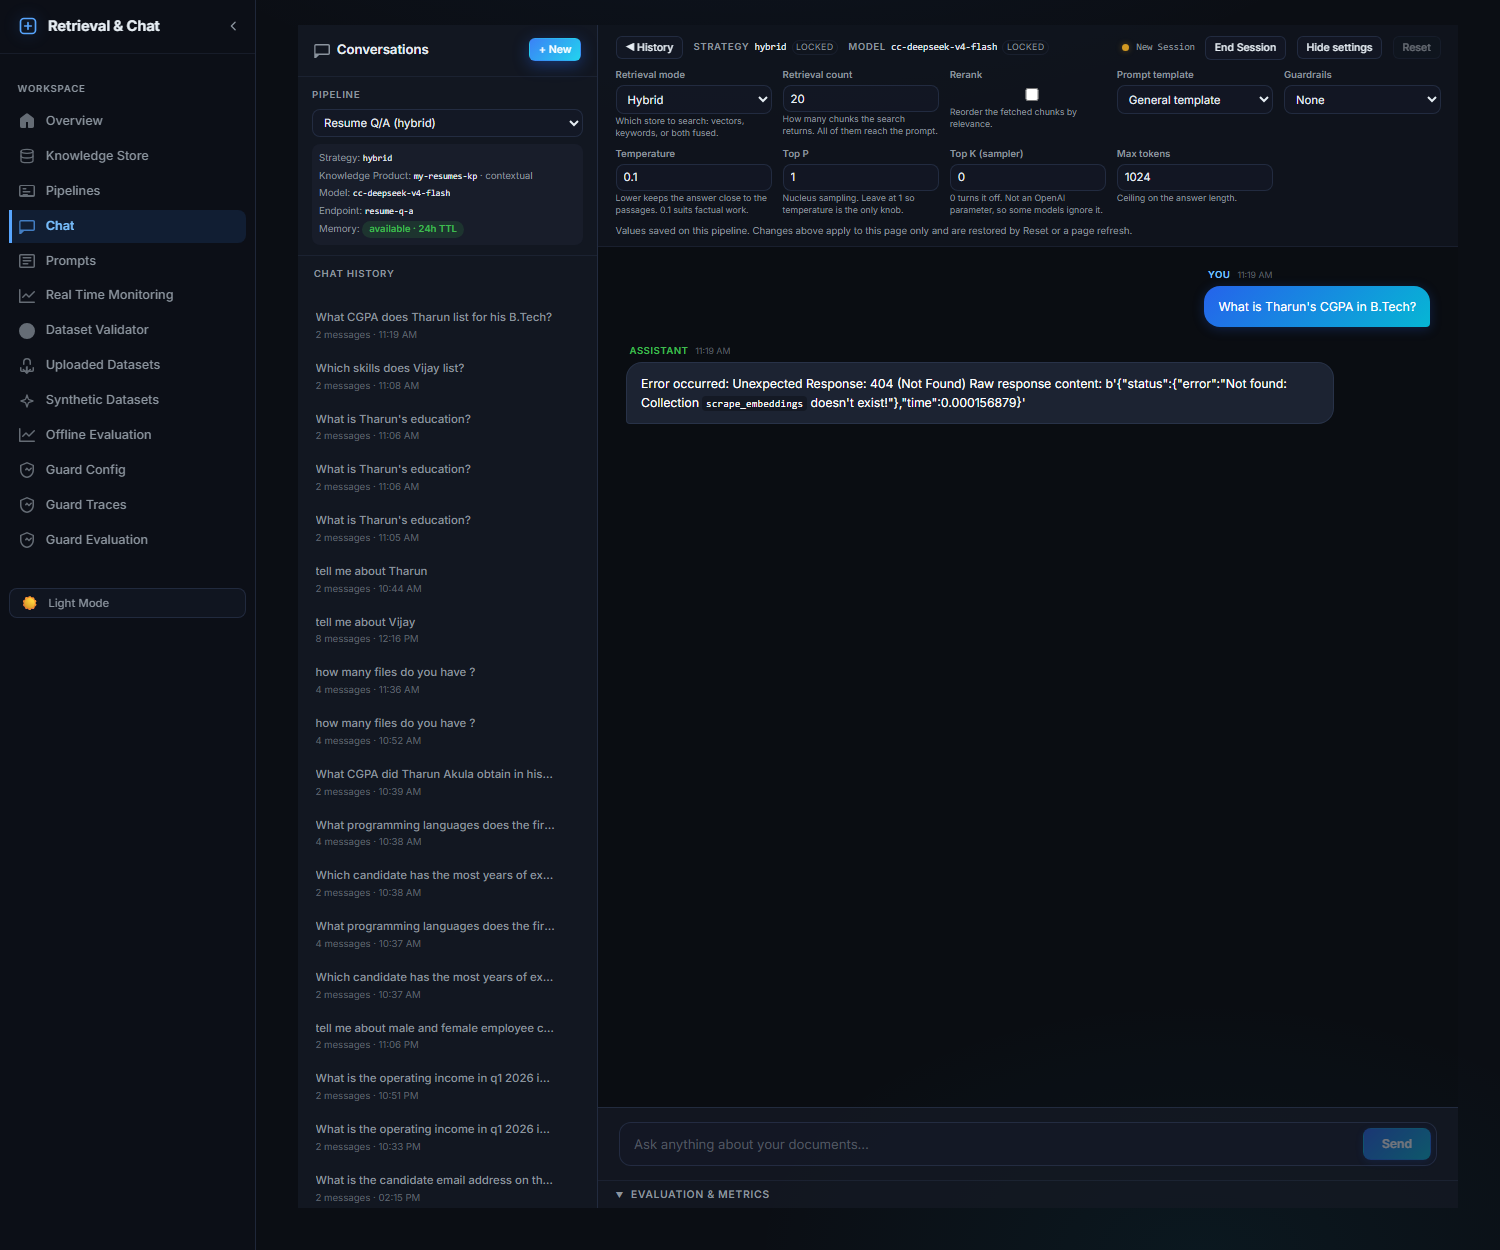
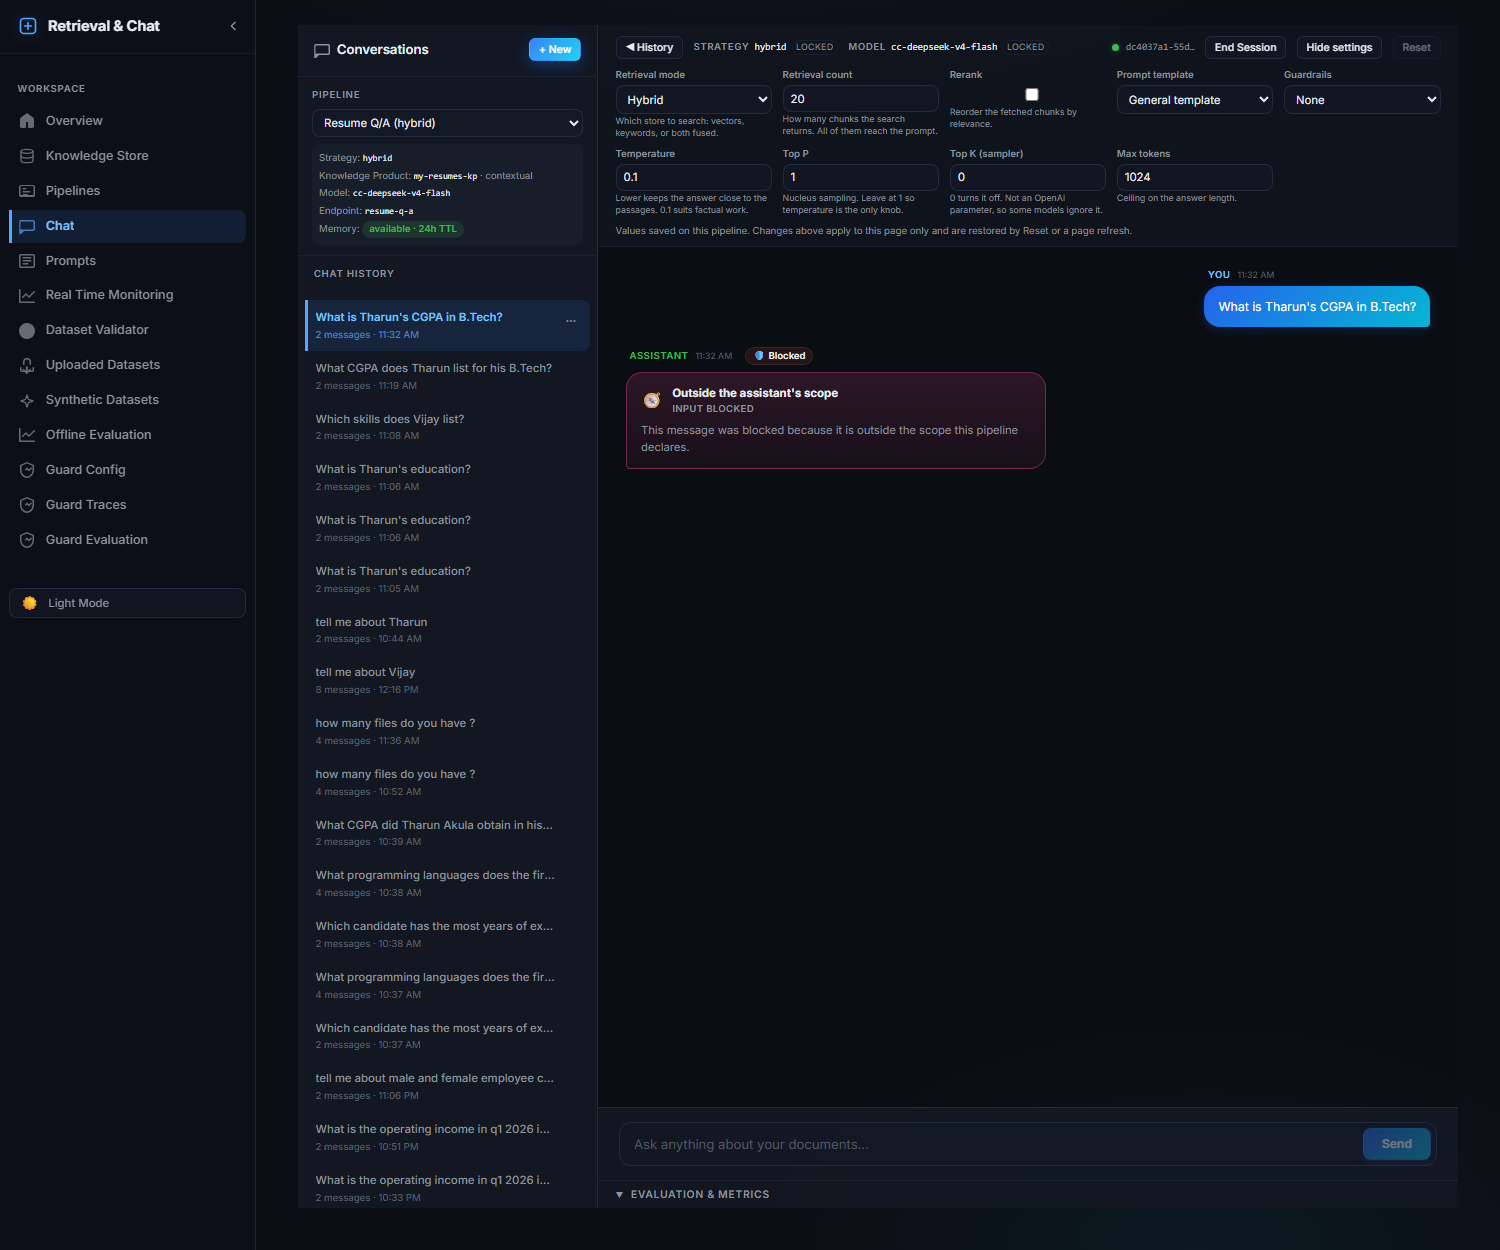
Offline evaluation: one judge per row, and the trace keeps the timings
- calculate_retrieval_ragas_async ignored the run's judge: context precision,
  recall and entity recall were graded by the service default while generation
  and the triad used the model the run names. One row, two judges.
- compute_retrieval_ragas_metrics loses its dead answer parameter.
- EvalItemResult carries latency_ms, so the OTel trace records the stage
  timings instead of an always-empty dict.

diff --git a/rag-retrieval-chat-manager/backend/libs/eval-core/src/eval_core/ragas_client.py b/rag-retrieval-chat-manager/backend/libs/eval-core/src/eval_core/ragas_client.py
@@ -190,6 +190,7 @@ async def calculate_retrieval_ragas_async(
     label: str | None = None,
     category: str | None = None,
     include_context_recall: bool = True,
+    judge_model: str | None = None,
 ) -> dict[str, float | None]:
     """RAGAS context metrics: precision, recall, and entity recall.
 
@@ -215,7 +216,10 @@ async def calculate_retrieval_ragas_async(
         logger.warning("Skipping retrieval RAGAS — missing contexts or reference")
         return {}
 
-    llm = build_ragas_llm(settings)
+    # The run's judge. Without it these three metrics used the service default while
+    # generation and the triad used the model the run names, so one row was graded by
+    # two models.
+    llm = build_ragas_llm(settings, judge_model)
 
     # ragas>=0.4 collections metrics use ascore(**fields), not single_turn_ascore(sample)
     jobs: list[tuple[str, Any]] = [
@@ -513,6 +517,7 @@ async def calculate_row_metrics_async(
             reference=reference,
             label=label,
             category=category,
+            judge_model=judge_model,
         ),
         calculate_generation_ragas_async(
             settings,
@@ -585,7 +590,7 @@ def compute_retrieval_ragas_metrics(
     label: str | None = None,
     category: str | None = None,
     include_context_recall: bool = True,
-    answer: str | None = None,
+    judge_model: str | None = None,
 ) -> dict[str, float | None]:
     return asyncio.run(
         calculate_retrieval_ragas_async(
@@ -596,6 +601,7 @@ def compute_retrieval_ragas_metrics(
             label=label,
             category=category,
             include_context_recall=include_context_recall,
+            judge_model=judge_model,
         )
     )
 

diff --git a/rag-retrieval-chat-manager/backend/libs/eval-core/src/eval_core/runner.py b/rag-retrieval-chat-manager/backend/libs/eval-core/src/eval_core/runner.py
@@ -47,6 +47,8 @@ class EvalItemResult:
     # The conversation the pipeline actually produced, as user/assistant pairs, in order.
     # Empty on a single-turn row, where `generated_answer` already is the whole record.
     generated_turns: list[dict[str, str]] = field(default_factory=list)
+    # The pipeline's own stage timings. The worker emits them with the OTel trace.
+    latency_ms: dict[str, int] = field(default_factory=dict)
 
 
 class GoldenItemEvaluator:
@@ -248,4 +250,5 @@ class GoldenItemEvaluator:
             generated_answer=result.answer,
             generation_metrics=generation_metrics,
             generated_turns=generated_turns or [],
+            latency_ms=dict(latency),
         )

diff --git a/rag-retrieval-chat-manager/backend/tests/unit/test_ragas_client.py b/rag-retrieval-chat-manager/backend/tests/unit/test_ragas_client.py
@@ -120,6 +120,7 @@ def test_compute_retrieval_ragas_metrics_only(mock_llm) -> None:
             question="What is HTML?",
             contexts=["HTML is markup language."],
             reference="HTML is markup.",
+            judge_model="cc-deepseek-v4-flash",
         )
 
     assert scores == {
@@ -129,6 +130,8 @@ def test_compute_retrieval_ragas_metrics_only(mock_llm) -> None:
     }
     precision.ascore.assert_awaited_once()
     recall.ascore.assert_awaited_once()
+    # The retrieval judge is the run's judge, not the service default.
+    mock_llm.assert_called_once_with(settings, "cc-deepseek-v4-flash")
 
 
 @patch("eval_core.ragas_client.build_ragas_llm")
